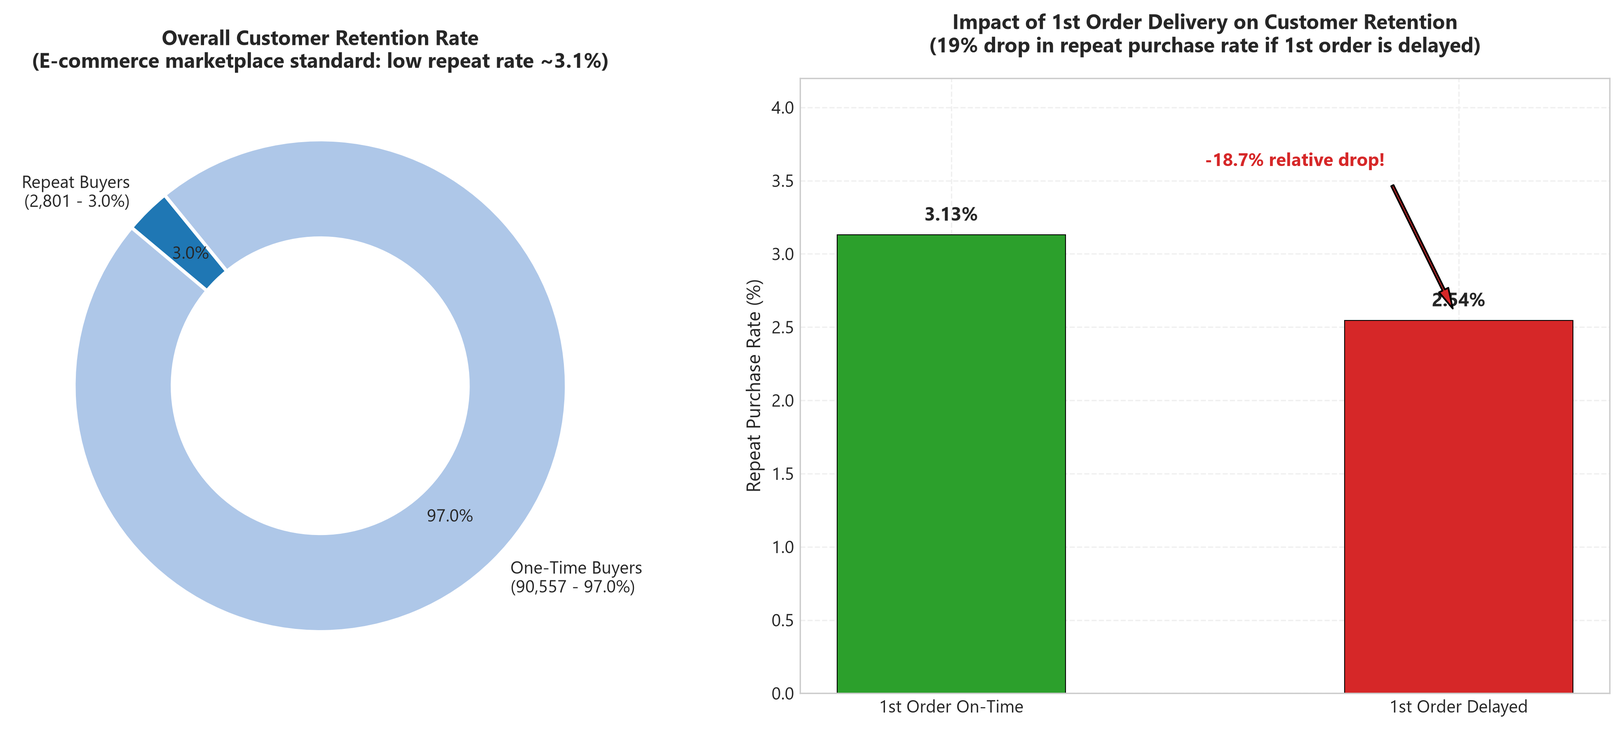
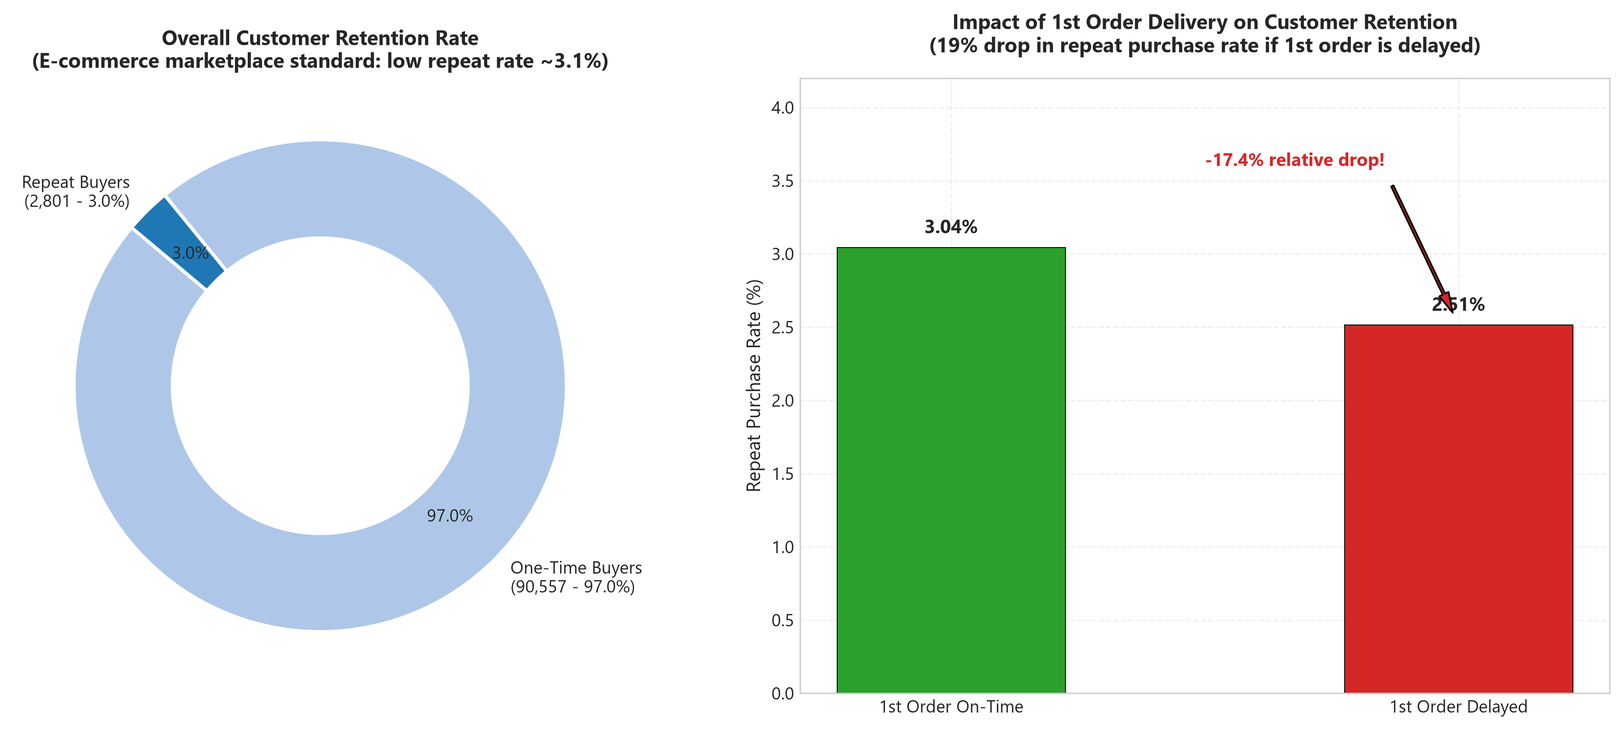
fix:

Changed region(s): [[0.8371, 0.3418, 0.9611, 0.4661], [0.4961, 0.2797, 0.6821, 0.3418]]

diff --git a/src/04_exploratory_data_analysis.py b/src/04_exploratory_data_analysis.py
@@ -114,23 +114,35 @@ def analyze_delivery_delay_vs_satisfaction(df):
 # ==========================================
 def analyze_geographic_bottlenecks(df):
     print("--- [Question 2] Geographic Bottlenecks & Interstate Delivery ---")
-    deliv = df[df['order_status'] == 'delivered'].drop_duplicates(subset=['order_id']).copy()
+    # Lọc đơn giao thành công hợp lệ (có ngày giao thực tế - 96,470 đơn)
+    deliv_valid = df[(df['order_status'] == 'delivered') & (df['is_valid_delivered'] == 1)].copy()
 
-    # 1. Phân tích Vận chuyển Liên bang (Interstate) vs Nội bang (Intrastate)
-    interstate_stats = deliv.groupby('is_interstate').agg(
+    # 1. Phân tích Vận chuyển Liên bang (Interstate) vs Nội bang (Intrastate) ở cấp độ ĐƠN HÀNG (Order-level)
+    # Tính tổng cước phí mỗi đơn (thay vì lấy ngẫu nhiên 1 sản phẩm) để phản ánh đúng gánh nặng cước ship
+    order_routes = deliv_valid.groupby('order_id').agg(
+        is_interstate=('is_interstate', 'max'),
+        total_order_freight=('freight_value', 'sum'),
+        total_order_value=('price', 'sum'),
+        actual_delivery_days=('actual_delivery_days', 'first'),
+        is_delayed=('is_delayed', 'max'),
+        review_score=('review_score', 'first'),
+        customer_state=('customer_state', 'first')
+    ).reset_index()
+
+    interstate_stats = order_routes.groupby('is_interstate').agg(
         total_orders=('order_id', 'count'),
         avg_actual_days=('actual_delivery_days', 'mean'),
-        avg_freight_value=('freight_value', 'mean'),
+        avg_order_freight=('total_order_freight', 'mean'),
         delay_rate=('is_delayed', lambda s: s.mean() * 100),
         avg_review=('review_score', 'mean')
     ).reset_index()
     interstate_stats['route_type'] = interstate_stats['is_interstate'].map({0: 'Intrastate (Nội bang)', 1: 'Interstate (Liên bang)'})
     interstate_stats.to_csv(os.path.join(OUTPUT_TABLES_DIR, 'q2_interstate_vs_intrastate.csv'), index=False)
-    print("Interstate vs Intrastate Benchmark:")
+    print("Interstate vs Intrastate Benchmark (Order-level Total Freight):")
     print(interstate_stats)
 
-    # 2. Thống kê theo Bang (State Delivery Performance)
-    state_stats = deliv.groupby('customer_state').agg(
+    # 2. Thống kê theo Bang (State Delivery Performance trên 96,470 đơn hợp lệ)
+    state_stats = order_routes.groupby('customer_state').agg(
         total_orders=('order_id', 'count'),
         delayed_orders=('is_delayed', 'sum'),
         delay_rate=('is_delayed', lambda s: s.mean() * 100),
@@ -158,7 +170,7 @@ def analyze_geographic_bottlenecks(df):
     ax1.set_xlabel('Delivery Delay Rate (% of orders arriving late)', fontsize=11)
     ax1.set_title('Geographic Delivery Bottlenecks: Top Delayed States vs Best Performing States\n(Northeast region suffers the highest delay rates > 15%)',
                   fontsize=13, fontweight='bold', pad=15)
-    ax1.axvline(deliv['is_delayed'].mean() * 100, color='black', linestyle='--', label=f"National Avg Delay: {deliv['is_delayed'].mean()*100:.1f}%")
+    ax1.axvline(order_routes['is_delayed'].mean() * 100, color='black', linestyle='--', label=f"National Avg Delay: {order_routes['is_delayed'].mean()*100:.1f}%")
 
     for bar, (_, row) in zip(bars, plot_states.iterrows()):
         w = bar.get_width()
@@ -178,7 +190,8 @@ def analyze_geographic_bottlenecks(df):
 # ==========================================
 def analyze_seller_risk_matrix(df):
     print("--- [Question 3] Seller Risk Matrix (High Revenue - Low Satisfaction) ---")
-    deliv = df[df['order_status'] == 'delivered'].copy()
+    # Lọc đơn giao thành công hợp lệ (có ngày giao thực tế)
+    deliv = df[(df['order_status'] == 'delivered') & (df['is_valid_delivered'] == 1)].copy()
 
     # Grain-Safe: Deduplicate về cấp seller-order để phản ánh đúng trải nghiệm của từng đơn hàng
     seller_orders = deliv.groupby(['seller_id', 'order_id']).agg(
@@ -325,12 +338,15 @@ def analyze_customer_retention(df):
     print(f"Total Unique Customers (Delivered Only): {total_cust_deliv:,} | Repeat Completed Purchases: {repeat_deliv_count:,} ({repeat_deliv_pct:.2f}%)")
 
     # Xác định đơn hàng đầu tiên (First Order) của từng khách hàng theo timestamp mua hàng
-    sorted_orders = merged.sort_values(by=['customer_unique_id', 'order_purchase_timestamp'])
-    first_orders = sorted_orders.drop_duplicates(subset=['customer_unique_id'], keep='first').copy()
-    first_orders['is_repeat_customer'] = first_orders['customer_unique_id'].isin(repeat_all_ids).astype(int)
+    # Để thống nhất với định nghĩa chuẩn 'Repeat Completed Purchases', đo lường khả năng khách quay lại mua thành công
+    deliv_sorted = deliv_orders.sort_values(by=['customer_unique_id', 'order_purchase_timestamp'])
+    deliv_first = deliv_sorted.drop_duplicates(subset=['customer_unique_id'], keep='first').copy()
+    
+    # Chỉ xét các đơn đầu hợp lệ có ngày giao (is_valid_delivered == 1)
+    deliv_first = deliv_first[deliv_first['is_valid_delivered'] == 1].copy()
+    deliv_first['is_repeat_customer'] = deliv_first['customer_unique_id'].isin(repeat_deliv_ids).astype(int)
 
-    # Đánh giá tác động của giao hàng trễ ở đơn đầu tiên (trên tập đơn đầu delivered)
-    deliv_first = first_orders[first_orders['order_status'] == 'delivered'].copy()
+    # Đánh giá tác động của giao hàng trễ ở đơn đầu tiên đối với tỷ lệ quay lại mua thành công
     retention_by_delay = deliv_first.groupby('is_delayed').agg(
         customer_count=('customer_unique_id', 'count'),
         repeat_rate=('is_repeat_customer', lambda s: s.mean() * 100)
@@ -338,6 +354,7 @@ def analyze_customer_retention(df):
 
     retention_by_delay['status_label'] = retention_by_delay['is_delayed'].map({0: '1st Order On-Time', 1: '1st Order Delayed'})
     retention_by_delay.to_csv(os.path.join(OUTPUT_TABLES_DIR, 'q5_retention_by_first_order_delay.csv'), index=False)
+    print("Impact of 1st Order Delivery on Repeat Completed Purchases:")
     print(retention_by_delay)
 
     # Trực quan hóa

diff --git a/src/03_data_cleaning.py b/src/03_data_cleaning.py
@@ -117,7 +117,7 @@ def clean_geolocation():
         'Geolocation',
         raw_count,
         len(geo_agg),
-        f"Xóa {raw_count - len(df_geo_clean):,} dòng trùng/ngoại lai; Gom nhóm (group by) 19,015 zip code duy nhất (median lat/lng, mode city/state).",
+        f"Xóa {raw_count - len(df_geo_clean):,} dòng trùng/ngoại lai; Gom nhóm (group by) {len(geo_agg):,} zip code duy nhất (median lat/lng, mode city/state).",
         "Triệt tiêu hoàn toàn rủi ro nhân dòng (Row Multiplication) khi kết nối dữ liệu địa lý với Customers và Sellers."
     )
     return geo_agg
@@ -294,16 +294,18 @@ def clean_orders_and_engineer_features():
     ).round(2)
 
     # 4. Gắn cờ trạng thái giao hàng (Delivery Status Flag)
-    # is_delayed = 1 nếu giao trễ (> 0 ngày) đối với đơn hàng đã giao thành công
-    df_orders['is_delayed'] = np.where(
-        (df_orders['order_status'] == 'delivered') & (df_orders['delivery_delay_days'] > 0),
+    # is_valid_delivered: 1 nếu đơn hàng giao thành công và có ngày giao thực tế hợp lệ (96,470 đơn)
+    df_orders['is_valid_delivered'] = np.where(
+        (df_orders['order_status'] == 'delivered') & (df_orders['order_delivered_customer_date'].notna()),
         1,
         0
     )
 
-    # Flag đơn hàng thành công hợp lệ có đầy đủ ngày giao
-    df_orders['is_valid_delivered'] = np.where(
-        (df_orders['order_status'] == 'delivered') & (df_orders['order_delivered_customer_date'].notna()),
+    # is_delayed: 1 nếu giao trễ (> 0 ngày) đối với đơn hàng hợp lệ; 0 nếu đúng hạn
+    # Lưu ý: Các đơn thiếu ngày giao hoặc chưa giao thì is_delayed = 0 nhưng có is_valid_delivered = 0.
+    # Mọi phân tích KPI vận chuyển phải lọc WHERE is_valid_delivered = 1 để tránh tính nhầm đơn thiếu ngày là đúng hạn.
+    df_orders['is_delayed'] = np.where(
+        (df_orders['is_valid_delivered'] == 1) & (df_orders['delivery_delay_days'] > 0),
         1,
         0
     )
@@ -421,7 +423,7 @@ def generate_cleaning_log_report():
         md += f"| **{row['Table']}** | {row['Raw Rows']} | {row['Cleaned Rows']} | {row['Rows Delta']} | {row['Actions Taken']} | {row['Business Justification']} |\n"
 
     md += "\n## 2. Key Data Engineering Highlights\n\n"
-    md += "1. **Triệt tiêu nhân dòng (Zero Row Multiplication):** Bảng Geolocation (hơn 1 triệu dòng) được gom nhóm (aggregate) theo 19,015 zip code duy nhất với giá trị tọa độ trung vị (median). Bảng Review được lọc giữ lại review mới nhất cho mỗi order.\n"
+    md += "1. **Triệt tiêu nhân dòng (Zero Row Multiplication):** Bảng Geolocation (hơn 1 triệu dòng) được gom nhóm (aggregate) theo 19,010 zip code duy nhất với giá trị tọa độ trung vị (median). Bảng Review được lọc giữ lại review mới nhất cho mỗi order.\n"
     md += "2. **Giải quyết dứt điểm bản dịch thiếu:** Đã bổ sung bản dịch tiếng Anh cho `pc_gamer` và `portateis_cozinha_e_preparadores_de_alimentos` theo đúng cam kết trong Business Problem.\n"
     md += "3. **Feature Engineering sẵn sàng cho Business Questions:** Đã tính toán chuẩn hóa `actual_delivery_days`, `delivery_delay_days`, `is_delayed`, `delay_bucket`, `is_interstate` để phục vụ trực tiếp phân tích tương quan giữa giao hàng trễ và điểm hài lòng khách hàng.\n"
     md += "4. **Master Dataset:** Tạo bảng tích hợp `olist_master_analytical_dataset.csv` giúp việc kết nối vào Power BI / Jupyter Notebook trở nên cực kỳ thuận tiện và an toàn.\n"

diff --git a/src/05_build_star_schema.py b/src/05_build_star_schema.py
@@ -156,13 +156,14 @@ def load_into_sqlite(dim_date, dim_cust, dim_sellers, dim_products, fact_items):
 
     conn = sqlite3.connect(DB_PATH)
     cursor = conn.cursor()
+    cursor.execute("PRAGMA foreign_keys = ON;")
 
     # 1. Thực thi DDL Schema từ sql/01_create_star_schema.sql (Tạo bảng có Primary Key & Foreign Keys)
     ddl_path = os.path.join(BASE_DIR, 'sql', '01_create_star_schema.sql')
     with open(ddl_path, 'r', encoding='utf-8') as f:
         ddl_sql = f.read()
     cursor.executescript(ddl_sql)
-    print("  -> Applied DDL schema (Tables, Primary Keys, Foreign Keys, Indexes) from sql/01_create_star_schema.sql")
+    print("  -> Applied DDL schema (Tables, Primary Keys, Foreign Keys, Indexes) with PRAGMA foreign_keys = ON")
 
     # 2. Nạp dữ liệu vào bảng (if_exists='append' để giữ nguyên DDL constraints)
     dim_date.to_sql('dim_date', conn, if_exists='append', index=False)

diff --git a/README.md b/README.md
@@ -21,20 +21,20 @@ Olist là sàn thương mại điện tử kết nối các doanh nghiệp vừa
 
 ## 💡 2. 5 Phát Hiện Kinh Doanh Trọng Yếu (Executive Insights)
 
-Dựa trên việc làm sạch và phân tích **96.478 đơn hàng đã giao thành công** và **96.096 khách hàng duy nhất** giai đoạn 2016 – 2018:
+Dựa trên việc làm sạch và phân tích **96.470 đơn hàng đã giao thành công hợp lệ** (loại bỏ 8 đơn delivered thiếu ngày giao thực tế) và **96.096 khách hàng duy nhất** giai đoạn 2016 – 2018:
 
 1. **"Vực thẳm kiên nhẫn" (The Tolerance Cliff) tại ngày thứ 3:**
    * Khách hàng có xu hướng dễ tính với các đơn trễ nhẹ từ 1 – 3 ngày (điểm hài lòng trung bình đạt **3.76 ★** so với **4.29 ★** của đơn đúng hạn).
    * Tuy nhiên, **từ ngày trễ thứ 4 trở đi, sự kiên nhẫn hoàn toàn sụp đổ:** điểm đánh giá rớt thẳng đứng xuống **2.32 ★** (trễ 4–7 ngày) và chạm đáy **1.73 ★** (trễ > 7 ngày). Có tới **68.8% khách hàng chấm 1 sao** (tính trên tập đơn có đánh giá hợp lệ) khi đơn hàng trễ hơn 1 tuần.
 2. **Điểm nghẽn Logistics theo khu vực (Khu vực Đông Bắc - Northeast):**
    * Các bang thuộc vùng Đông Bắc chịu tỷ lệ giao trễ cao báo động: Alagoas (`AL`: **23.9%**), Maranhão (`MA`: **19.7%**), Ceará (`CE`: **15.2%**), cao gấp 4 lần so với bang trung tâm kinh tế São Paulo (`SP`: **5.9%**).
-   * Đơn hàng vận chuyển liên bang (Interstate) mất trung bình **15.1 ngày**, gần gấp đôi so với nội bang (**7.9 ngày**) và có chi phí cước vận chuyển cao hơn **76.5%** (23.88 R$ so với 13.53 R$).
+   * Đơn hàng vận chuyển liên bang (Interstate) mất trung bình **15.1 ngày**, gần gấp đôi so với nội bang (**7.9 ngày**) và có tổng chi phí cước vận chuyển trung bình mỗi đơn cao hơn **75.5%** (26.94 R$ so với 15.35 R$).
 3. **Phát hiện 16 Đối tác Doanh thu cao nhưng Rủi ro lớn (High Revenue - High Risk Sellers):**
    * Áp dụng chuẩn **Order-Deduplicated** (loại bỏ lặp trùng cấp sản phẩm), xác định được **16 sellers** (hoặc 21 sellers nếu tính theo trọng số dòng sản phẩm) đạt doanh thu vượt trội (> 15.000 R$) nhưng sở hữu điểm đánh giá trung bình dưới **3.8 ★** và tỷ lệ trễ hạn cá biệt lên tới **22.1%** (thậm chí 64.3% ở các seller giao chậm kéo dài). Đây là nhóm đối tượng tạo doanh thu cao nhưng đang âm thầm hủy hoại danh tiếng thương hiệu của sàn.
-4. **Tỷ lệ khách hàng mua lại của sàn cực kỳ khiêm tốn (3.00% – 3.12%):**
-   * Trong 96.096 khách hàng duy nhất, có **2.997 khách hàng** từng phát sinh đơn hàng lần thứ 2 trở lên (**3.12%** - tính trên mọi trạng thái đơn). Nếu chỉ xét các đơn đã giao thành công (Delivered), tỷ lệ mua lại thực đạt là **3.00%** (2.801 / 93.358 khách hàng).
+4. **Tỷ lệ khách hàng mua lại hoàn tất (Repeat Completed Purchases): 3.00%:**
+   * Trong 93.358 khách hàng có đơn giao thành công, chỉ có **2.801 khách hàng** từng hoàn tất giao dịch lần thứ 2 trở lên (**3.00%**). Nếu tính trên mọi đơn đặt hàng (kể cả đơn hủy/chưa hoàn tất), tỷ lệ này là **3.12%** (2.997 / 96.096 khách hàng).
 5. **Hiệu ứng đòn bẩy từ trải nghiệm đơn hàng đầu tiên (First-Order Leverage):**
-   * Khách hàng có đơn hàng đầu tiên bị giao trễ có tỷ lệ quay lại mua hàng **giảm 18.7%** (từ 3.13% xuống chỉ còn 2.54%) so với những khách hàng nhận đơn đầu tiên đúng hẹn.
+   * Khách hàng có đơn hàng đầu tiên bị giao trễ có tỷ lệ quay lại mua hàng thành công **giảm 17.4%** (từ 3.04% xuống chỉ còn 2.51%) so với những khách hàng nhận đơn đầu tiên đúng hẹn.
 
 > 📌 **Tính Liêm Chính Phương Pháp Luận (Methodological Notes):**
 > - **Giới hạn quan sát (Right-Censoring):** Tỷ lệ mua lại 3.12% được tính trên toàn bộ tập dữ liệu tĩnh Olist (2016–2018). Những khách hàng gia nhập vào tháng 08/2018 có ít thời gian để quay lại mua sắm hơn khách hàng gia nhập năm 2017.
@@ -53,7 +53,7 @@ Mô hình Dashboard được thiết kế theo tiêu chuẩn Business Intelligen
 
 * **Hàng KPI Cards:** Tổng doanh thu (R$ 15.42M), Tổng đơn hàng (96.5K), Tỷ lệ giao đúng hạn (91.9%), Điểm đánh giá trung bình (4.13 ★), Tỷ lệ khách hàng quay lại (3.12%).
 
-> 💡 **Ghi chú về Grain Mismatch:** Tỷ lệ giao trễ toàn quốc ở cấp độ **Đơn hàng (Order-level)** là **8.11%** (tương ứng **91.89% đúng hạn** trên 96,478 đơn hàng đã giao). Nếu tính ở cấp độ **Sản phẩm (Item-level trên 110,197 dòng)**, tỷ lệ trễ là **7.90%** (92.10% đúng hạn). Dự án sử dụng chuẩn cấp độ Đơn hàng để phản ánh trung thực trải nghiệm của khách hàng.
+> 💡 **Ghi chú về Chuẩn Mẫu số & Grain Mismatch:** Tỷ lệ giao đúng hạn toàn quốc đạt **91.89% (~91.9%)** (tương ứng tỷ lệ trễ **8.11%**) trên **96,470 đơn hàng giao thành công có đầy đủ ngày giao thực tế**. Có đúng 8 đơn hàng có trạng thái `delivered` nhưng thiếu ngày giao thực tế (`order_delivered_customer_date IS NULL`) đã được tách riêng để không tính nhầm thành giao đúng hạn. Nếu tính ở cấp độ **Sản phẩm (Item-level trên 110,197 dòng)**, tỷ lệ trễ là **7.90%** (92.10% đúng hạn). Dự án sử dụng chuẩn cấp độ Đơn hàng để phản ánh trung thực trải nghiệm của người mua.
 
 * **Xu hướng Thời gian (Trend Analysis):** Biểu đồ kết hợp cột và đường thể hiện diễn biến Doanh thu theo tháng so sánh với Tỷ lệ giao hàng trễ (Delay Rate %).
 * **Phân tích Vực thẳm kiên nhẫn (Delay Buckets vs Review):** Trực quan hóa điểm số đánh giá và tỷ lệ đơn 1 sao tương ứng với từng khoảng thời gian trễ (Đúng hẹn, 1–3 ngày, 4–7 ngày, > 7 ngày).

diff --git a/docs/05_data_cleaning_log.md b/docs/05_data_cleaning_log.md
@@ -8,7 +8,7 @@
 | Table | Raw Rows | Cleaned Rows | Rows Delta | Actions Taken | Business Justification |
 | :--- | :--- | :--- | :--- | :--- | :--- |
 | **Products** | 32,951 | 32,951 | 0 | Dịch bổ sung 'pc_gamer' và 'portateis_cozinha...'; map tiếng Anh; fill 'unknown' cho 610 missing category; fill median cho kích thước/trọng lượng. | Đảm bảo 100% sản phẩm có danh mục hiển thị chuẩn tiếng Anh trên Dashboard và không có NaN kích thước làm lỗi thuật toán logistics. |
-| **Geolocation** | 1,000,163 | 19,010 | -981,153 | Xóa 261,864 dòng trùng/ngoại lai; Gom nhóm (group by) 19,015 zip code duy nhất (median lat/lng, mode city/state). | Triệt tiêu hoàn toàn rủi ro nhân dòng (Row Multiplication) khi kết nối dữ liệu địa lý với Customers và Sellers. |
+| **Geolocation** | 1,000,163 | 19,010 | -981,153 | Xóa 261,864 dòng trùng/ngoại lai; Gom nhóm (group by) 19,010 zip code duy nhất (median lat/lng, mode city/state). | Triệt tiêu hoàn toàn rủi ro nhân dòng (Row Multiplication) khi kết nối dữ liệu địa lý với Customers và Sellers. |
 | **Customers** | 99,441 | 99,441 | 0 | Chuẩn hóa định dạng Title Case cho City, Upper Case cho State code 2 ký tự. | Nhất quán dữ liệu hiển thị địa phương. |
 | **Sellers** | 3,095 | 3,095 | 0 | Chuẩn hóa định dạng Title Case cho City, Upper Case cho State code 2 ký tự. | Nhất quán dữ liệu hiển thị người bán. |
 | **Order Reviews** | 99,224 | 98,673 | -551 | Lọc bỏ 551 review trùng order_id (giữ review mới nhất theo timestamp); thêm cột satisfaction_tier; flag has_comment. | Ngăn chặn việc 1 order có nhiều review gây nhân dòng khi kết nối với bảng Orders. |
@@ -19,7 +19,7 @@
 
 ## 2. Key Data Engineering Highlights
 
-1. **Triệt tiêu nhân dòng (Zero Row Multiplication):** Bảng Geolocation (hơn 1 triệu dòng) được gom nhóm (aggregate) theo 19,015 zip code duy nhất với giá trị tọa độ trung vị (median). Bảng Review được lọc giữ lại review mới nhất cho mỗi order.
+1. **Triệt tiêu nhân dòng (Zero Row Multiplication):** Bảng Geolocation (hơn 1 triệu dòng) được gom nhóm (aggregate) theo 19,010 zip code duy nhất với giá trị tọa độ trung vị (median). Bảng Review được lọc giữ lại review mới nhất cho mỗi order.
 2. **Giải quyết dứt điểm bản dịch thiếu:** Đã bổ sung bản dịch tiếng Anh cho `pc_gamer` và `portateis_cozinha_e_preparadores_de_alimentos` theo đúng cam kết trong Business Problem.
 3. **Feature Engineering sẵn sàng cho Business Questions:** Đã tính toán chuẩn hóa `actual_delivery_days`, `delivery_delay_days`, `is_delayed`, `delay_bucket`, `is_interstate` để phục vụ trực tiếp phân tích tương quan giữa giao hàng trễ và điểm hài lòng khách hàng.
 4. **Master Dataset:** Tạo bảng tích hợp `olist_master_analytical_dataset.csv` giúp việc kết nối vào Power BI / Jupyter Notebook trở nên cực kỳ thuận tiện và an toàn.

diff --git a/powerbi/dax_measures_and_model_guide.md b/powerbi/dax_measures_and_model_guide.md
@@ -73,11 +73,12 @@ DIVIDE([Gross Order Value], [Total Orders], 0)
 ### Nhóm 2: Delivery & Logistics Performance (Hiệu suất Vận chuyển)
 
 ```dax
--- 8. Số đơn hàng đã giao thành công
+-- 8. Số đơn hàng đã giao thành công hợp lệ (có ngày giao thực tế)
 Delivered Orders = 
 CALCULATE(
     [Total Orders],
-    fact_order_items[order_status] = "delivered"
+    fact_order_items[order_status] = "delivered",
+    fact_order_items[is_valid_delivered] = 1
 )
 
 -- 9. Số đơn hàng bị giao trễ hẹn (Delivered Late)
@@ -136,6 +137,13 @@ AVERAGEX(
     fact_order_items[review_score]
 )
 
+-- 15b. Tổng số đơn có đánh giá hợp lệ (Valid Reviews Count)
+Valid Reviews Count = 
+CALCULATE(
+    [Delivered Orders],
+    NOT(ISBLANK(fact_order_items[review_score]))
+)
+
 -- 16. Số lượt đánh giá 1 sao (1-Star Count)
 1-Star Reviews = 
 CALCULATE(
@@ -143,15 +151,15 @@ CALCULATE(
     fact_order_items[review_score] = 1
 )
 
--- 17. Tỷ lệ đánh giá 1 sao (% 1-Star Ratio)
+-- 17. Tỷ lệ đánh giá 1 sao (% 1-Star Ratio trên tập có đánh giá)
 1-Star Rate % = 
-DIVIDE([1-Star Reviews], [Delivered Orders], 0)
+DIVIDE([1-Star Reviews], [Valid Reviews Count], 0)
 
--- 18. Tỷ lệ đánh giá 5 sao (% 5-Star Ratio)
+-- 18. Tỷ lệ đánh giá 5 sao (% 5-Star Ratio trên tập có đánh giá)
 5-Star Rate % = 
 DIVIDE(
     CALCULATE([Delivered Orders], fact_order_items[review_score] = 5),
-    [Delivered Orders],
+    [Valid Reviews Count],
     0
 )
 ```
@@ -188,22 +196,29 @@ COUNTROWS(
     )
 )
 
--- 22. Tỷ lệ khách hàng quay lại mua hàng (Repeat Purchase Rate)
---     Khách hàng có >= 2 đơn hàng riêng biệt / Tổng khách hàng
+-- 22. Tỷ lệ khách hàng mua lại hoàn tất (Repeat Purchase Rate - Delivered Orders Only)
+--     Khách hàng có >= 2 đơn hàng giao thành công / Tổng khách hàng có đơn giao thành công
+--     Lưu ý kỹ thuật DAX: Sử dụng cấu trúc tường minh để không phụ thuộc vào hướng quan hệ 2 chiều (Bidirectional)
 Repeat Purchase Rate % = 
-VAR TotalCustomers = [Total Unique Customers]
-VAR RepeatCustomers = 
-    COUNTROWS(
-        FILTER(
-            ADDCOLUMNS(
-                VALUES(dim_customers[customer_unique_id]),
-                "OrderCount", CALCULATE([Total Orders])
-            ),
-            [OrderCount] > 1
+VAR CustomerOrderSummary = 
+    ADDCOLUMNS(
+        VALUES(dim_customers[customer_unique_id]),
+        "CompletedOrders", 
+        CALCULATE(
+            DISTINCTCOUNT(fact_order_items[order_id]),
+            fact_order_items[order_status] = "delivered"
         )
     )
+VAR RepeatCustomers = 
+    COUNTROWS(
+        FILTER(CustomerOrderSummary, [CompletedOrders] > 1)
+    )
+VAR TotalCompletedCustomers = 
+    COUNTROWS(
+        FILTER(CustomerOrderSummary, [CompletedOrders] >= 1)
+    )
 RETURN
-    DIVIDE(RepeatCustomers, TotalCustomers, 0)
+    DIVIDE(RepeatCustomers, TotalCompletedCustomers, 0)
 ```
 
 ---

diff --git a/docs/07_data_modeling_and_star_schema.md b/docs/07_data_modeling_and_star_schema.md
@@ -173,7 +173,7 @@ FROM (
 ) AS order_level;
 ```
 
-> **Lý do giữ `review_score` trong Fact Table thay vì tách riêng:** Trong bối cảnh dự án portfolio, việc giữ `review_score` trong `fact_order_items` giúp **giảm độ phức tạp mô hình** (tránh thêm 1 bảng Fact riêng cho Reviews) và vẫn cho phép slicing/filtering trực tiếp trên dashboard. Điều quan trọng là **người phân tích phải luôn deduplicate về `order_id` trước khi tính các chỉ số liên quan đến review**. Toàn bộ SQL queries trong [02_kpi_business_queries.sql](../sql/02_kpi_business_queries.sql) đều đã áp dụng kỹ thuật này (xem Query 1: CTE `order_level` với `GROUP BY order_id`).
+> **Lý do giữ `review_score` trong Fact Table thay vì tách riêng:** Trong bối cảnh dự án portfolio, việc giữ `review_score` trong `fact_order_items` giúp **giảm độ phức tạp mô hình** (tránh thêm 1 bảng Fact riêng cho Reviews) và vẫn cho phép slicing/filtering trực tiếp trên dashboard. Điều quan trọng là **người phân tích phải deduplicate về `order_id` khi tính các chỉ số phân tích ở cấp độ đơn hàng**. Các câu truy vấn phân tích Đơn hàng và Người bán trong [02_kpi_business_queries.sql](../sql/02_kpi_business_queries.sql) đều đã áp dụng kỹ thuật này (xem Query 1: CTE `order_level` với `GROUP BY order_id`, Query 3: CTE `seller_orders`). Riêng Query 4 phân tích Ngành hàng (Category) được tổng hợp ở cấp Item-level để phản ánh đúng trọng số sản phẩm tiêu thụ.
 
 > **⚠ Lưu ý mở rộng cho Power BI DAX:** Quy tắc deduplicate này **không chỉ áp dụng cho `review_score`** mà còn cho tất cả các trường order-level khác đang nằm trong fact table: `actual_delivery_days`, `estimated_delivery_days`, `delivery_delay_days`, `satisfaction_tier`. Toàn bộ các DAX Measures tính trung bình cho các trường này **bắt buộc** phải dùng `AVERAGEX(VALUES(order_id), ...)` thay vì `AVERAGE()` trực tiếp. Xem chi tiết trong [powerbi/dax_measures_and_model_guide.md](../powerbi/dax_measures_and_model_guide.md) — Nhóm 2 (Measures #12-14) và Nhóm 3 (Measure #15).
 
